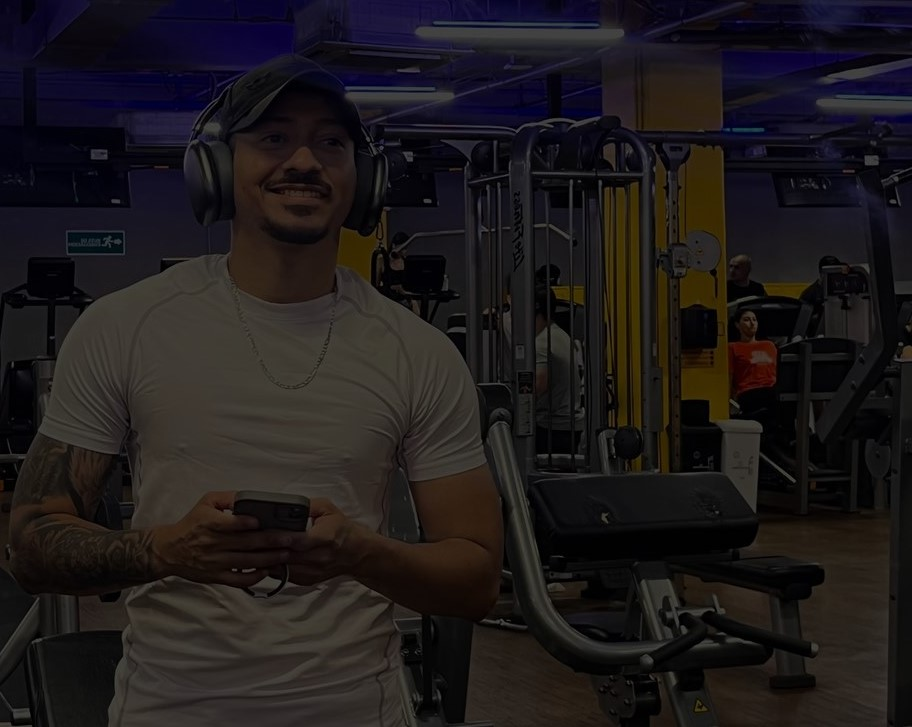
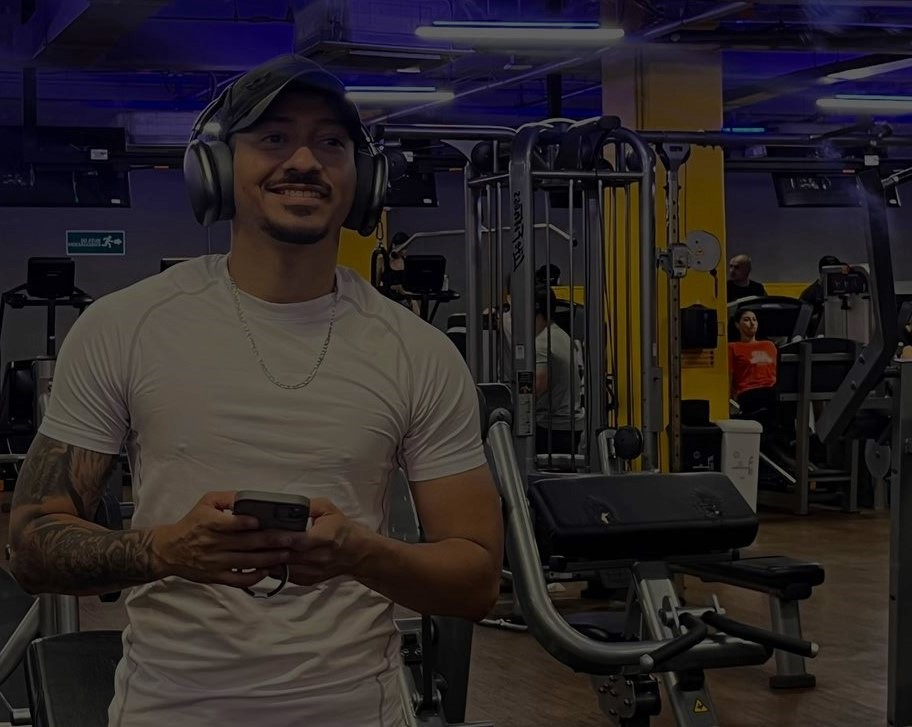
actuali

diff --git a/frontend/src/Sobremi.css b/frontend/src/Sobremi.css
@@ -50,7 +50,7 @@
   width: 100%;
   height: 100%;
   object-fit: cover;
-  object-position: 70% top;
+  object-position: 50% top;
 }
 
 /* Ya no se usa la franja amarilla */
@@ -185,5 +185,9 @@
 
   .sobremi__contenido {
     max-width: 660px;
+  }
+
+  .sobremi__img {
+    object-position: 20% top; /* escritorio: corre la foto hacia la derecha */
   }
 }
